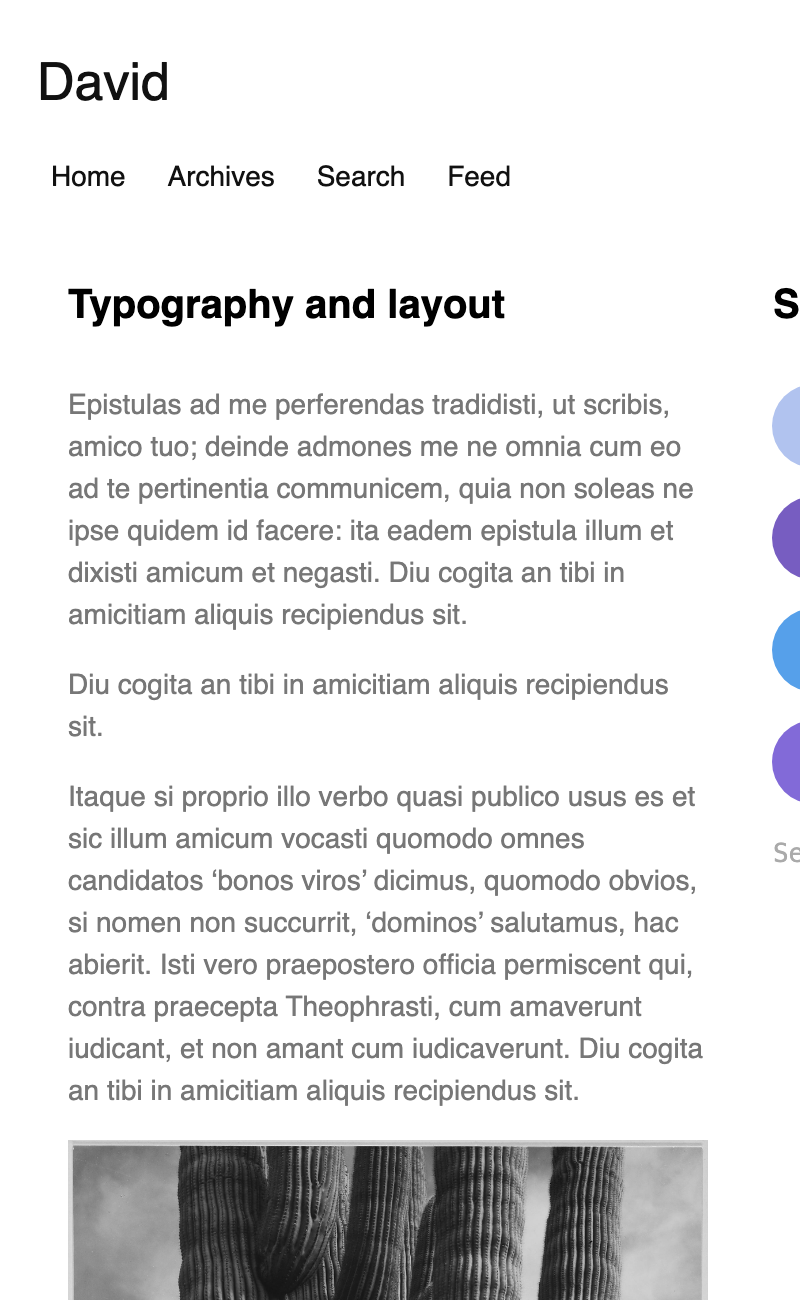
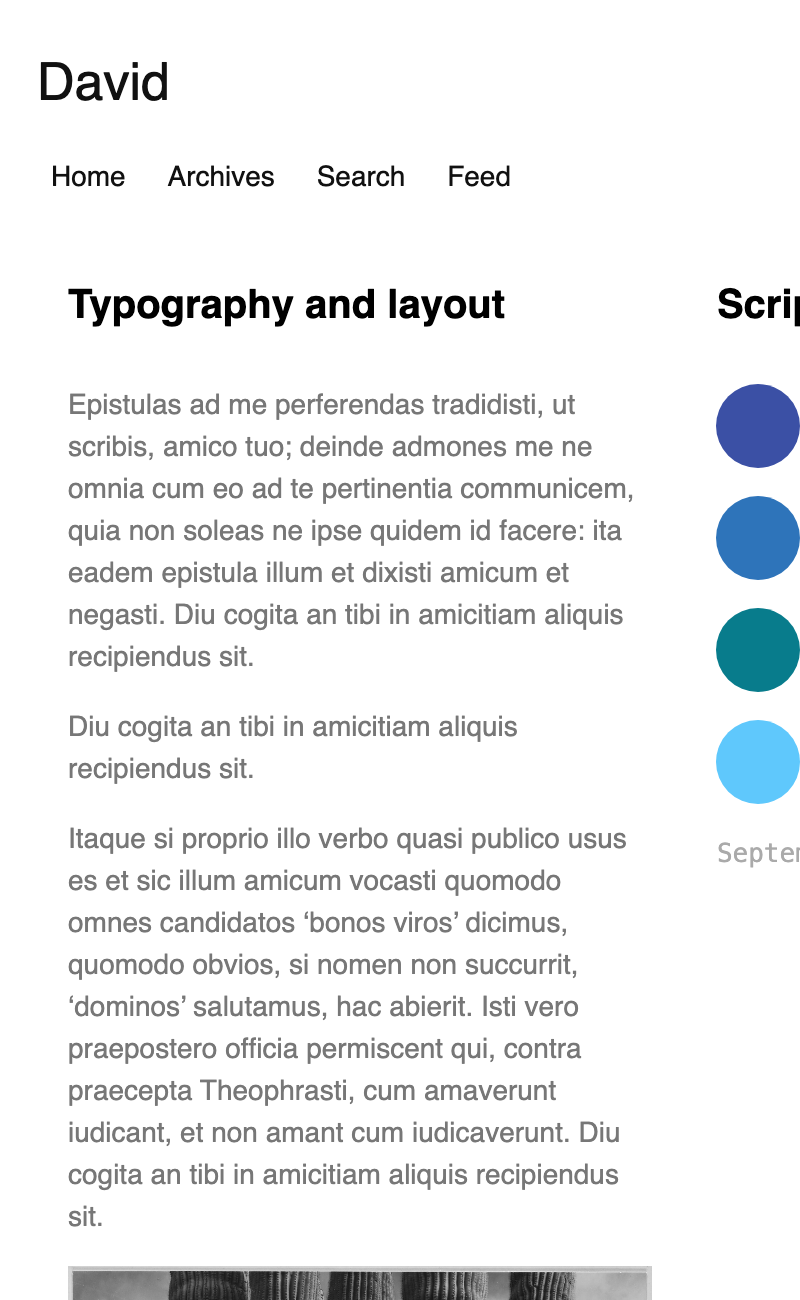
Fix Keynote gallery screenshot background and layout

diff --git a/app/templates/source/keynote/style.css b/app/templates/source/keynote/style.css
@@ -1,23 +1,43 @@
 {{{app_css}}}
 
+html,
+body {
+  background: {{background_color}};
+  color-scheme: light;
+}
+
 body {
   font: normal 16px / 1.5 sans-serif;
   margin: 0;
   padding: 0;
-  color: #111
+  color: #111;
+}
+
+/* Fill the viewport below the header; paint a background so screenshots are opaque. */
+body:has(.gallery) {
+  display: flex;
+  flex-direction: column;
+  height: 100vh;
+  overflow: hidden;
 }
 
 .gallery {
   overflow-x: scroll;
   overflow-y: hidden !important;
   white-space: nowrap;
-  position: absolute;
-  bottom: 0;
-  top: 8em;
-  padding:0 3.66em
+  flex: 1 1 auto;
+  min-width: 0;
+  min-height: 0;
+  padding: 0 3.66em;
+  background: {{background_color}};
 }
 
-.gallery .entry {display: inline-block;vertical-align: top;width: 320px;white-space: normal;
+.gallery .entry {
+  display: inline-block;
+  vertical-align: top;
+  width: 320px;
+  box-sizing: border-box;
+  white-space: normal;
 }
 
 img {max-width: 100%;height: auto;}
@@ -47,11 +67,24 @@ hr {width: 100%;border: none;border-bottom: 1px solid rgba(0,0,0,0.15)}
   margin:1em 0;color: #aaa;font-size: 13px}
 
 
-#header {padding: 4em;font-size: 14px;}
+#header {
+  padding: 4em;
+  font-size: 14px;
+  display: flex;
+  flex-wrap: wrap;
+  align-items: center;
+  flex: 0 0 auto;
+  background: {{background_color}};
+}
 #header a {padding: 0.5em;margin: 0 0.5em;border: 1px solid transparent}
 #header a:hover {border-color: #000}
 
-#title {font-size: 30px;float: right;position:relative;top: -1em;padding: 0.25em}
+#title {
+  font-size: 30px;
+  margin-left: auto;
+  position: relative;
+  padding: 0.25em;
+}
 
 .avatar {
   width:36px;
@@ -66,7 +99,8 @@ hr {width: 100%;border: none;border-bottom: 1px solid rgba(0,0,0,0.15)}
 .entry {font-size:14px;padding: 1em;color: #777}
 .entry h1:first-of-type {margin-top: 0.3em}
 
-.contents {margin: 0 4em 0 8em;max-width: 800px}
+.contents,
+.container {margin: 0 4em 0 8em;max-width: 800px}
 
 .caption {
   font: 14px / 1.4333 sans-serif;
@@ -83,11 +117,7 @@ hr {width: 100%;border: none;border-bottom: 1px solid rgba(0,0,0,0.15)}
 @media screen and (max-width: 800px) {
   #header {
     padding: 1.25em 1.25em 1em;
-    display: flex;
-    flex-wrap: wrap;
-    align-items: center;
     row-gap: 0.4em;
-    flex: 0 0 auto;
   }
 
   #header a {
@@ -96,9 +126,6 @@ hr {width: 100%;border: none;border-bottom: 1px solid rgba(0,0,0,0.15)}
   }
 
   #header #title {
-    float: none;
-    position: static;
-    top: auto;
     flex: 0 0 100%;
     order: -1;
     margin: 0;
@@ -107,24 +134,12 @@ hr {width: 100%;border: none;border-bottom: 1px solid rgba(0,0,0,0.15)}
     overflow-wrap: anywhere;
   }
 
-  body:has(.gallery) {
-    display: flex;
-    flex-direction: column;
-    height: 100vh;
-    overflow: hidden;
-  }
-
   .gallery {
-    position: relative;
-    top: auto;
-    bottom: auto;
-    flex: 1 1 auto;
-    min-width: 0;
-    min-height: 0;
     padding: 0 1.25em;
   }
 
-  .contents {
+  .contents,
+  .container {
     margin: 0 1.25em 2em;
   }
 }

diff --git a/app/templates/source/keynote/_header.html b/app/templates/source/keynote/_header.html
@@ -1,7 +1,7 @@
 <div id="header">
 
   {{#avatar}}
-  <img id="avatar" src="{{avatar}}" />
+  <img id="avatar" class="avatar" src="{{{avatar}}}" alt="" />
   {{/avatar}}
 
   {{#menu}}

diff --git a/app/templates/source/keynote/search.html b/app/templates/source/keynote/search.html
@@ -35,7 +35,6 @@
         {{#entries}}
           <a href="{{{url}}}">{{title}}</a> {{date}}<br>
         {{/entries}}
-      </p>
 
 
 
